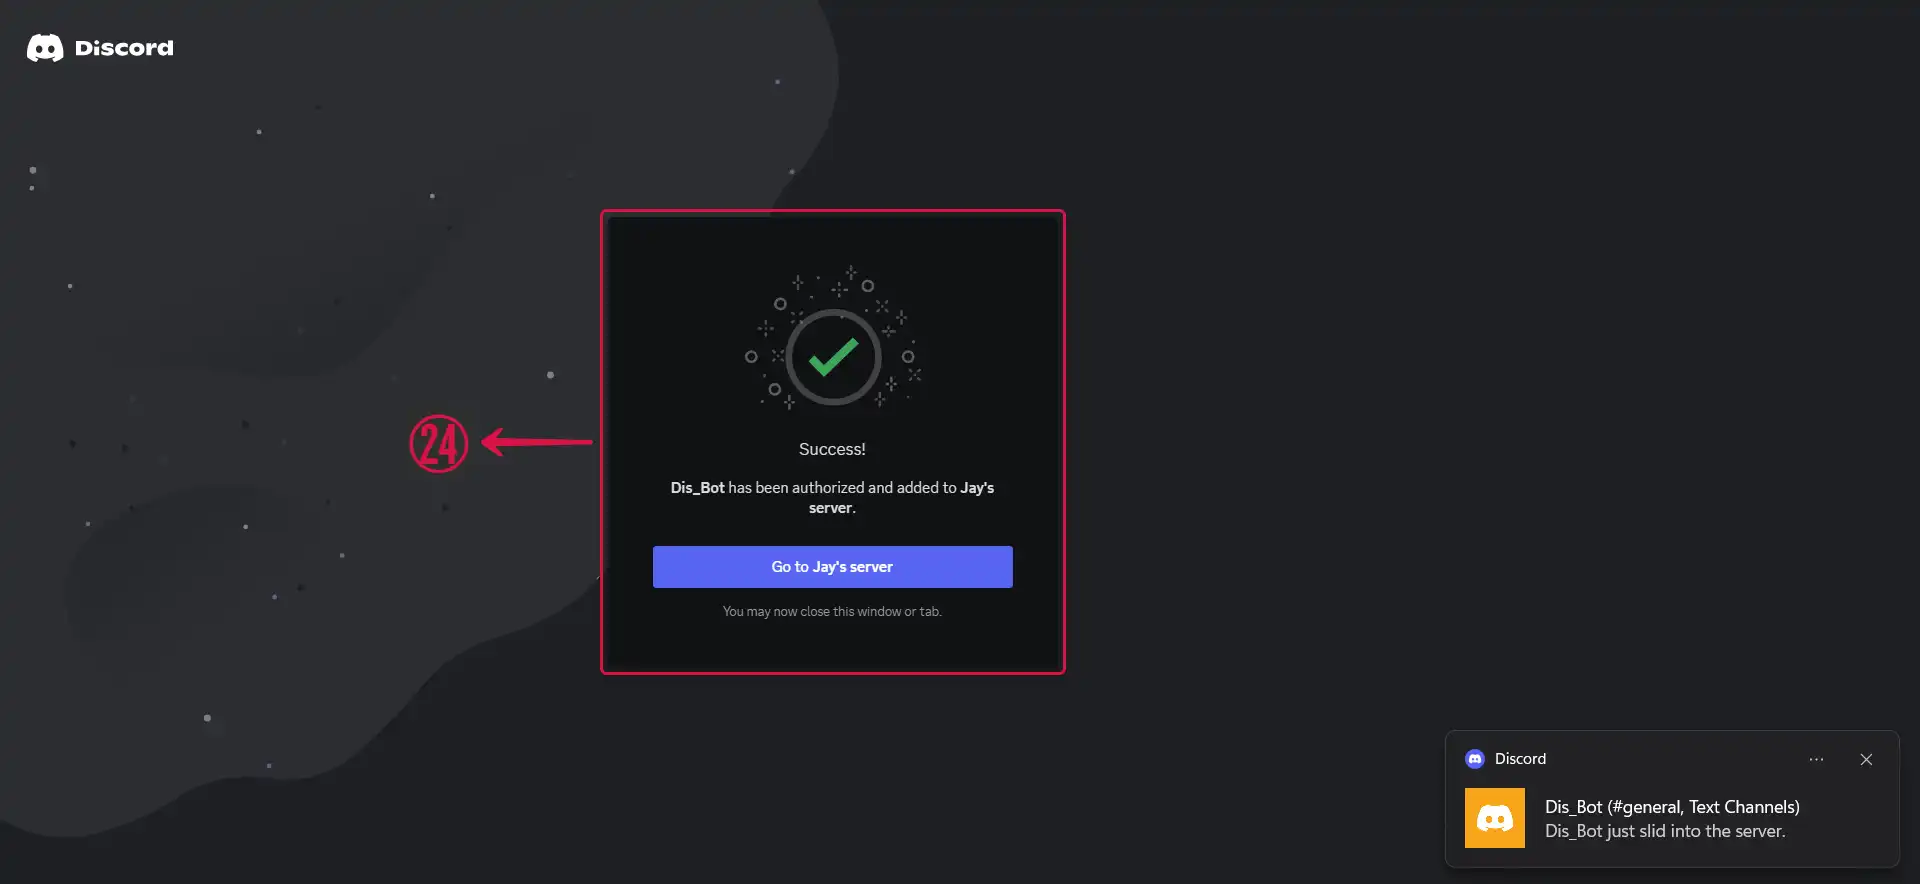
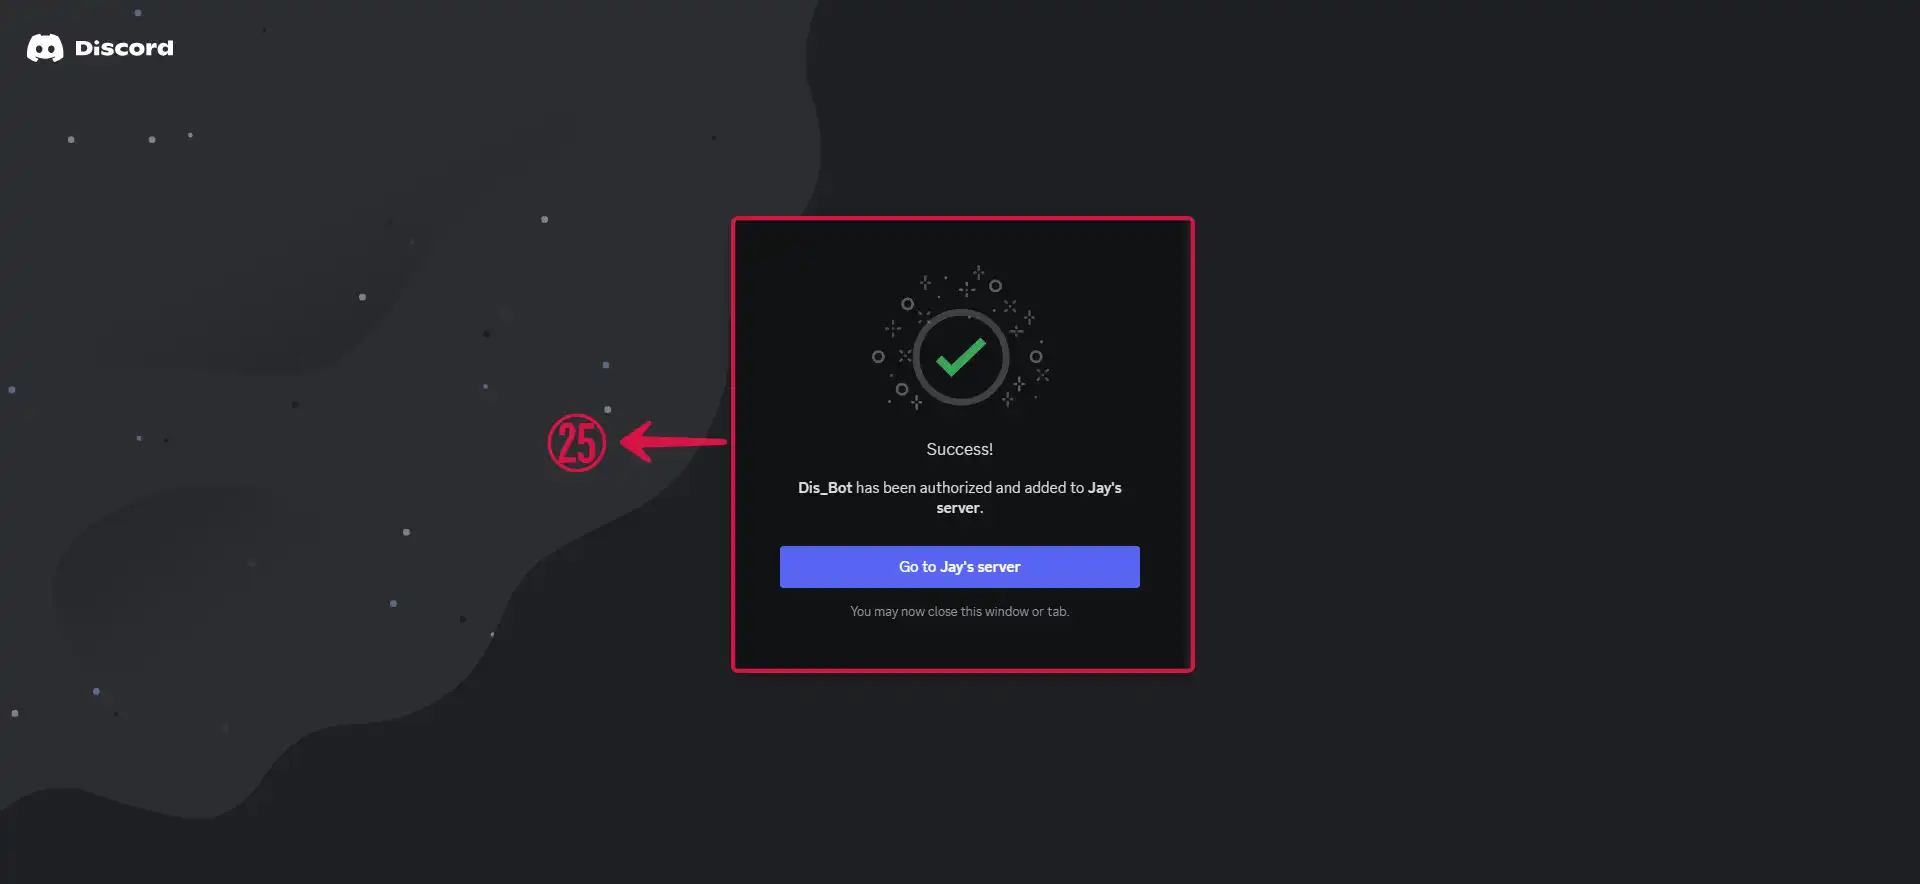
Docs: AI Integration - Discord added step (#671)

Changed region(s): [[0.1875, 0.2138, 0.625, 0.7636], [0.75, 0.8247, 0.9375, 0.9774], [0.4688, 0.4887, 0.5312, 0.5192]]

diff --git a/content/vanus-ai/integrations/discord/index.md b/content/vanus-ai/integrations/discord/index.md
@@ -114,15 +114,19 @@ In the next steps, we will go to the Discord website or Application to create ou
 
 ![ai_integration_discord21](images/ai_integration_discord21.webp)
 
-17. Choose your **Server**㉑ and press **Continue**㉒.
+:::note
+The **URL**㉑ is a website link that directs you to a page where you need to authorize your newly created bot to access a Discord server.
+:::
+
+17. Choose your **Server**㉒ and press **Continue**㉓.
 
 ![ai_integration_discord22](images/ai_integration_discord22.webp)
 
-18. Click on **Authorize**㉓.
+18. Click on **Authorize**㉔.
 
 ![ai_integration_discord23](images/ai_integration_discord23.webp)
 
-19. Your Bot has been successfully **authorized**㉔.
+19. Your Bot has been successfully **authorized**㉕.
 
 ![ai_integration_discord24](images/ai_integration_discord24.webp)
 
